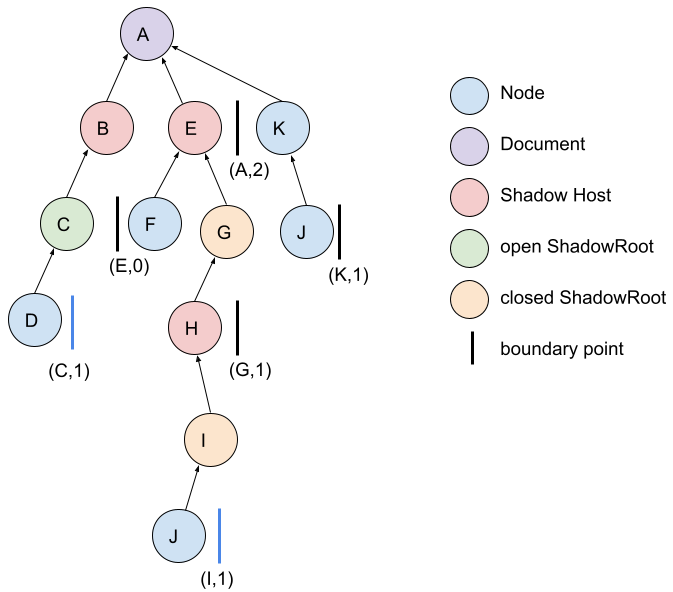
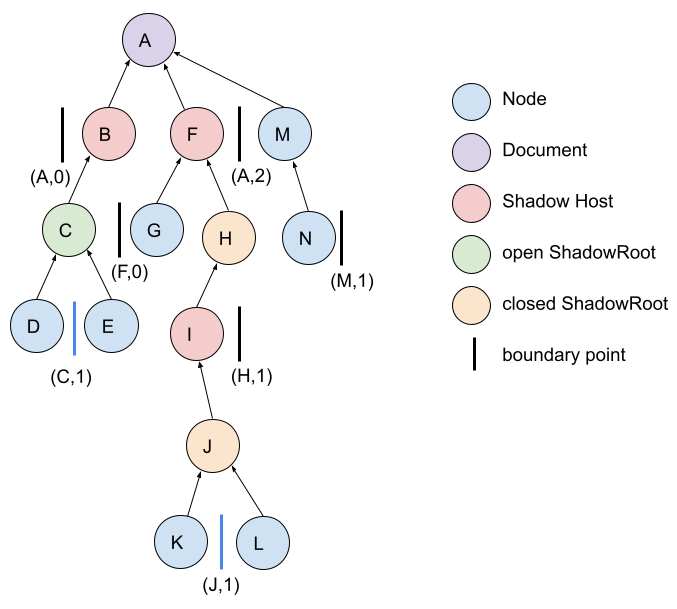
Added selectionRoot argument, changed closedRoots to shadowRoots, and addressed action items

diff --git a/README.md b/README.md
@@ -171,12 +171,17 @@ This is a two-part proposal.
 
 ```webIDL
 partial interface Selection {
-  StaticRange getComposedRange(optional sequence<ShadowRoot> closedRoots = []);
+  StaticRange getComposedRange(optional GetComposedRangeOptions options = {});
+};
+
+dictionary GetComposedRangeOptions {
+  Node selectionRoot;
+  sequence<ShadowRoot> shadowRoots;
 };
 ```
 
 
-This a new API, `getComposedRange()`, which can return a [`StaticRange`](https://developer.mozilla.org/en-US/docs/Web/API/StaticRange) with endpoints in **different shadow trees**. Because that might expose `Node`s inside `closed` shadow trees, an optional `closedRoots` parameter enables the method to return `Node`s within the provided list of closed roots, if necessary. If a selection endpoint is within a non-provided `closed` shadow root, the returned selection will be ["re-scoped"](#re-scoping) as if the entire host element was selected.
+This a new API, `getComposedRange()`, which can return a [`StaticRange`](https://developer.mozilla.org/en-US/docs/Web/API/StaticRange) with endpoints in **different shadow trees**. Because that will necessarily expose `Node`s inside shadow trees, including potentially `closed` shadow trees, an optional `shadowRoots` parameter enables the method to return `Node`s within the provided list of shadow roots, if necessary. If a selection endpoint is within a non-provided shadow root, the returned selection will be ["re-scoped"](#re-scoping) as if the entire host element for that shadow root was selected.
 
 ## Part 2: Modify existing `Selection` APIs accordingly
 
@@ -197,7 +202,8 @@ With the new API, the exact selection range can be accessed:
 ```html
 <script>
 document.addEventListener("selectionchange", function() {
-  let composedRange = window.getSelection().getComposedRange();
+  let selection = window.getSelection();
+  let composedRange = selection.getComposedRange({shadowRoots: [root]});
   console.log(composedRange); // {"foo", 1, "baz", 1}
 });
 </script>
@@ -213,7 +219,7 @@ window.getSelection().setBaseAndExtent(foo, 1, baz, 1);
 
 ## #2. Editor component inside Shadow DOM.
 
-With a simple code change, the existing example "just works":
+With a simple code change, the existing Shadow DOM based example `<x-editor2>` element "just works":
 
 ```html
 <script>
@@ -221,7 +227,7 @@ customElements.define('x-editor2', class extends HTMLElement {
     ...same as before...
     shadow.querySelector('button').onclick = () => {
       let selection = window.getSelection();
-      let range = selection.getComposedRange(); // NEW API CALL HERE
+      let range = selection.getComposedRange({shadowRoots: [this]}); // NEW API CALL HERE
       range.startContainer.parentElement.style.color = 'red';
     };
   }
@@ -230,18 +236,21 @@ customElements.define('x-editor2', class extends HTMLElement {
 <x-editor2></x-editor2>
 ```
 
-Here, the `getComposedRange()` call returns the correct range, even when the selection crosses shadow boundaries.
+Here, the `getComposedRange()` call returns the correct range, even when the selection falls within its shadow root.
 
-If the `<x-editor2>` component were to be implemented using a `closed` shadow root, then the `closedRoots` parameter could be used to "unlock" access to the component's own shadow root:
+If, on the other hand, the editor wanted to be sure to only change nodes within "its" tree, each endpoint of the range would need to be checked for tree location:
 
 ```html
 <script>
 customElements.define('x-editor2', class extends HTMLElement {
-    ...same as before, but with a **closed** shadow root...
+    ...same as before...
     shadow.querySelector('button').onclick = () => {
-      let selection = window.getSelection();
-      let range = selection.getComposedRange(closedRoots: [shadow]); // NEW API CALL HERE
-      range.startContainer.parentElement.style.color = 'red';
+      ...same as before...
+      if (!shadow.contains(range.startContainer) || !shadow.contains(range.endContainer)) {
+        // Handle this case differently
+      } else {
+        range.startContainer.parentElement.style.color = 'red';
+      }
     };
   }
 });
@@ -249,7 +258,36 @@ customElements.define('x-editor2', class extends HTMLElement {
 <x-editor2></x-editor2>
 ```
 
-This example code will work both for the shadow-DOM-containing example `<x-editor2>` as well as the non-Shadow-DOM `<x-editor>` placed within a shadow root. I.e. it should be a complete replacement for the legacy `getRangeAt()` API.
+In the non-Shadow-DOM `<x-editor>` case, where an `<x-editor>` is placed within the shadow root of a `<parent-component>` element, a bit more work must be done:
+
+```html
+<script>
+  // Walk up the tree to find the first shadow root:
+  function getParentShadowRoot(el) {
+    if (el instanceof ShadowRoot || el === null)
+      return el;
+    return getParentShadowRoot(el.parentNode);
+  }
+  customElements.define('x-editor', class extends HTMLElement {
+    ...same as before...
+    connectedCallback() {
+      this.querySelector('button').onclick = () => {
+        let selection = window.getSelection();
+        let parentRoot = getParentShadowRoot(this); // Get the parent shadow root
+        // Pass it to the new API:
+        let range = selection.getComposedRange({shadowRoots: [parentRoot]});
+        range.startContainer.parentElement.style.color = 'red';
+      };
+    }
+  });
+  customElements.define('parent-component', class extends HTMLElement {
+    ...same as before...
+  });
+</script>
+<parent-component></parent-component>
+```
+
+In this case, since our `<x-editor>` component is located within a parent shadow root, we must provide "knowledge" of that shadow root. So we walk up the tree (using `getParentShadowRoot()`) to find the first containing shadow root, or null if there isn't one. This feels a bit odd, since `<x-editor>` doesn't use Shadow DOM, but it "proves" that `<x-editor>` knows how to deal with shadow selections.
 
 ## #3. Slotted content.
 
@@ -273,36 +311,72 @@ So the new `getComposedRange()` API works correctly here, too, so long as the ap
 
 # "Re-scoping"
 
-If the `closedRoots` parameter of `getComposedRange()` is not used, or if the provided value does not contain a given `closed` shadow root, then selections that cross such closed shadow roots will be **"re-scoped"** to enclose the corresponding shadow host element. That is to say, the returned `StaticRange` will be constructed as if the entire shadow host element is selected; neither the starting nor ending nodes of the `StaticRange` will reside within that shadow root.
+If the `shadowRoots` parameter of `getComposedRange()` is not used, or if the provided value does not contain a given shadow root, then selections that cross such shadow roots will be **"re-scoped"** to enclose the corresponding shadow host element. That is to say, the returned `StaticRange` will be constructed as if the entire shadow host element is selected; neither the starting nor ending nodes of the `StaticRange` will reside within that shadow root.
 
-To avoid this behavior for `closed` shadow roots, the `closedRoots` parameter can be used to allow `getComposedRange()` to return `Node`s within the provided roots. In the case of multiple nested `closed` `shadowRoot`s, only the lowest level `shadowRoot` is required in order to "reveal" higher level roots. For example, suppose we have this DOM tree:
+To avoid this behavior, the `shadowRoots` parameter can be used to allow `getComposedRange()` to return `Node`s within the provided roots. In the case of multiple nested `shadowRoot`s, only the lowest level `shadowRoot` is required in order to "reveal" higher level roots.
 
+To see the above in action, suppose we have this DOM tree:
+
+#### Example tree 1
 ![Example node tree](tree1.png)
 
 For this tree:
 
-```html
-<script>
+```javascript
+// Set the selection:
 let selection = window.getSelection();
-selection.setBaseAndExtent(C, 1, I, 1); // Select after-node-D through after-node-J
-// Passing no arguments, open shadow roots are included, but closed roots aren't:
-selection.getComposedRange(); // [C, 1, A, 2] - node E is closed, but B is open
-// Now, include closedRoots:
-selection.getComposedRange(closedRoots: [G]); // [C, 1, G, 1] - no knowledge of I 
-selection.getComposedRange(closedRoots: [I]); // [C, 1, I, 1] === original range, G not needed
-// Since G only contains H, which is not a <slot>, F does not get slotted/rendered:
-selection.containsNode(F); // false (see example #3 above)
-</script>
+selection.setBaseAndExtent(C, 1, J, 1); // Select from between-D-and-D through between-K-and-L
+
+// Passing no arguments, no shadow roots are included:
+selection.getComposedRange(); // [A, 0, A, 2] - nodes B and F are shadow hosts
+
+// Now, include shadowRoots:
+selection.getComposedRange({shadowRoots: [C]}); // [C, 1, A, 2] - no knowledge of F or I 
+selection.getComposedRange({shadowRoots: [C,H,J]}); // [C, 1, J, 1] === original range, all roots provided
+selection.getComposedRange({shadowRoots: [C,J]}); // [C, 1, J, 1] === original range, H not needed
+
+// Since H only contains I, which is not a <slot>, G does not get slotted/rendered:
+selection.containsNode(G); // false (see example #3 above)
+```
+
+Additionally, to simplify selection management for components that only wish to handle selections within a particular sub-tree, the `selectionRoot` parameter can be used:
+
+```javascript
+let rescopedSelection = selection.getComposedRange({selectionRoot: node});
+```
+
+In this case, the returned `StaticRange` will only contain endpoints that are inclusive descendants of `node`. If the selection extends "above" `node` in the tree on either side, those range endpoints will be re-scoped to appear as if the selection started and/or ended just within `node`. For example:
+
+#### Example tree 2
+
+![Example node tree #2](tree2.png)
+
+
+```javascript
+// Set the selection:
+let selection = window.getSelection();
+selection.setBaseAndExtent(A, 0, E, 1); // Select from before-B to after-F
+
+// Passing no arguments:
+selection.getComposedRange(); // [A, 0, A, 2] - re-scope around shadow host C
+
+// By providing a selectionRoot of E:
+//  1. the startContainer is re-scoped from A0 to E0 (first position within E).
+//  2. the containing shadow root is added to shadowRoots, so endContainer is *not* rescoped.
+selection.getComposedRange({selectionRoot: E}); // [E, 0, E, 1]
+
+// To use a "higher" selectionRoot, we'll have to also provide the shadow root:
+selection.getComposedRange({selectionRoot: A, shadowRoots: [D]}); // [A, 0, E, 1] === original 
 ```
 
 # Changes to existing Selection APIs
 
-This proposal adds only one *new* API, `getComposedRange()`. But it also modifies several *existing* Selection APIs to comprehend the composed tree. In general, the model for this proposal is to *change* the Selection API algorithms so that **internally**, the range is stored as a *composed* `StaticRange` with endpoints that can span **all** (including `closed`) shadow trees. And then the existing and new APIs discussed here ["re-scope"](#re-scoping) that actual full range to match platform expectations. For example, for backwards-compatibility, `Selection.getRangeAt()` should still return a *live* `Range` that is scoped to a single tree. And `Selection.getComposedRange()` should return a `StaticRange` that ["re-scopes"](#re-scoping) over (non-provided) `closed` shadow roots.
+This proposal adds only one *new* API, `getComposedRange()`. But it also modifies several *existing* Selection APIs to comprehend the composed tree. In general, the model for this proposal is to *change* the Selection API algorithms so that **internally**, the range is stored as an internal `Range`-type structure with endpoints that can span **all** (including `closed`) shadow trees. We will call this the **true range**. And then the existing and new APIs discussed here ["re-scope"](#re-scoping) that true range to match platform expectations. For example, for backwards-compatibility, `Selection.getRangeAt()` should still return a *live* `Range` that is scoped to a single tree. And `Selection.getComposedRange()` should return a `StaticRange` that ["re-scopes"](#re-scoping) over (non-provided) shadow roots.
 
 Here is a list of the existing Selection APIs that would be modified by this proposal:
 
 - Modify behavior to maintain backwards-compatibility:
-    - `Selection.getRangeAt()` - This function will be changed to return a single-tree `Range` object, by [re-scoping](#re-scoping) over any nodes in the range that are in different shadow trees. In other words, this will return a `Range` that is equivalent to the `StaticRange` that would be returned by a call to `getComposedRange()`, if all contained Shadow Roots were replaced by `closed` Shadow Roots, and no `closedRoots` parameter were provided.
+    - `Selection.getRangeAt()` - This function will be changed to return a single-tree `Range` object, by [re-scoping](#re-scoping) over any nodes in the range that are in different shadow trees. In other words, this will return a live `Range` that is equivalent to the `StaticRange` that would be returned by a call to `getComposedRange()` with no arguments provided.
     - `Selection.anchorNode/anchorOffset/focusNode/focusOffset` - because these currently always return `Node`s in the same shadow tree, they need to maintain that behavior. They should be re-defined to return the endpoints/offsets of the range returned by `Selection.getRangeAt(0)`.
 
 - Update behavior to "just work" for cross-tree selections:
@@ -311,6 +385,7 @@ Here is a list of the existing Selection APIs that would be modified by this pro
     - `Selection.collapseToEnd()/collapseToStart()` - These will be updated to work as expected for selections that include cross-tree endpoints.
     - `deleteFromDocument()` - This should work as-expected, even if range endpoints are in different trees.
     - `extend()` - This should work as-expected, even if the new `focusNode` is in a different shadow tree.
+    - User selection via mouse, keyboard, etc. - The selection generated by this activity should be allowed to start and end anywhere in the document, including inside any `open` or `closed` shadow trees. The behavior should be equivalent to calls to `setBaseAndExtent()`, modulo [canonicalization behavior](#canonicalization).
 
 - Perhaps more nuanced:
     - `Selection.containsNode()` - This must be modified to work correctly for slotted content, in addition to general cross-tree selections. For example, if an un-slotted child of a `Node` in the range is queried, this method should return `false`, even though that child is reachable in a tree-of-trees walk from `anchorNode` to `focusNode`. Since it is not slotted, the user does not see it, so it should not be considered to be part of the selection. Since the previous behavior was unaware of shadow trees entirely, this does not seem like much of a compat risk.
@@ -322,6 +397,67 @@ Here is a list of the existing Selection APIs that would be modified by this pro
     - `Selection.toString()` - No change needed.
     - `Selection.addRange()` - Since this method is fairly legacy and [only supports a single range](https://www.w3.org/TR/selection-api/#dom-selection-addrange) (by spec and in 2/3 engines), we should leave this API as-is, and **not** update it to support cross-tree ranges.
 
+
+# Mutability of live ranges returned from `getRangeAt()`
+
+In the [section above](#changes-to-existing-selection-apis), the `getRangeAt()` function is explained as a [re-scoping](#re-scoping) of the full selection, avoiding any contained shadow trees. The question arises: what happens if that live range is mutated via the various APIs available on [`Range`](https://developer.mozilla.org/en-US/docs/Web/API/Range):
+
+- Range.setStart()
+- Range.setEnd()
+- Range.setStartBefore()
+- Range.setStartAfter()
+- Range.setEndBefore()
+- Range.setEndAfter()
+- Range.selectNode()
+- Range.selectNodeContents()
+- Range.collapse()
+
+In each of these cases, the effect should be the same as if `setBaseAndExtend()` were called, with the provided start or end being the one provided, and the other endpoint of the range being the current value of the true range. In other words, for the `Range` APIs that only modify one endpoint of the range, the other endpoint of the actual, true range should not be affected/changed. For example, referring back to [Example Tree 1](#example-tree-1):
+
+```javascript
+let selection = window.getSelection();
+selection.setBaseAndExtent(A, 0, J, 1);
+// The true selection is now A0 (light DOM) to J1 (within nested shadow trees).
+
+let range = selection.getRangeAt(0); // [A, 0, A, 2] - re-scoped around F
+range.setStart(A, 1); // Move the start to A1
+range; // [A, 1, A, 2] - start node/offset updated, end node/offset left as-is.
+selection.getComposedRange({shadowRoots: [J]}); // [A, 1, J, 1] - end node/offset left as-is.
+
+range.setEnd(A, 2); // Move the end to A2
+range; // [A, 1, A, 2] - no apparent change
+selection.getComposedRange({shadowRoots: [J]}); // [A, 1, A, 2] - but end node has been updated.
+```
+
+A more complicated situation arises from the [requirement](https://dom.spec.whatwg.org/#:~:text=Algorithms%20that%20modify%20a%20tree) that DOM tree modifications themselves can also mutate live `Range` objects. For example, [node removal](https://dom.spec.whatwg.org/#concept-node-remove) can change the endpoints of a live range, if an endpoint of the range is close to the node being removed. The proposal here is to follow the existing logic for tree mutations, but apply the range modifications **directly to the true range** instead of to the `Range` object, which has re-scoped endpoints. In other words, if there's a live `Range` that has been re-scoped around some shadow trees, and a tree modification within one of the shadow trees takes place, the **true range** will be mutated accordingly, and the live `Range` will be updated to be equal to the rescoped-equivalent of the new true range.
+
+For example, referring back to [Example Tree 1](#example-tree-1):
+
+```javascript
+let selection = window.getSelection();
+selection.setBaseAndExtent(A, 0, J, 1);
+// The true selection is now A0 (light DOM) to J1 (within nested shadow trees).
+
+let range = selection.getRangeAt(0); // [A, 0, A, 2] - re-scoped around F
+
+// Remove node K from the tree:
+K.remove();
+range; // [A, 0, A, 2] - no visible change
+selection.getComposedRange({shadowRoots: [J]}); // [A, 0, J, 0] - updated end point
+```
+
+
+# Canonicalization
+
+When the selection is set by the user clicking and dragging the mouse across some text, the browser "canonicalizes" the selection endpoints. This means they pick from one of many possible node/offset values for the given visible caret position. For example:
+
+```html
+  <div>|<span>|<p>|Test</p></span></div>
+```
+
+If the user highlights the word "Test", the start point of the selection could be represented equally well by any of the positions marked with '|'. That means the startContainer for the range could be any of `<div>`, `<span>`, or `<p>`. All are equivalent from the user's point of view.
+
+Given that canonicalization happens when the selection is being modified, the same logic from the [Changes to existing selection APIs section](#changes-to-existing-selection-apis) can be used. Essentially, the same canonicalization can still be used, so long as the true selection endpoints are allowed to live in any shadow tree.
 
 # Web Compatibility Risk
 
